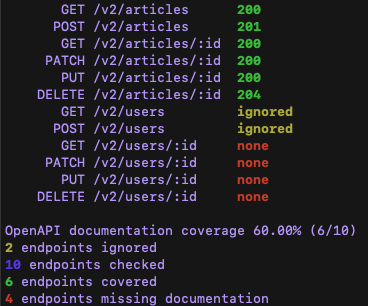
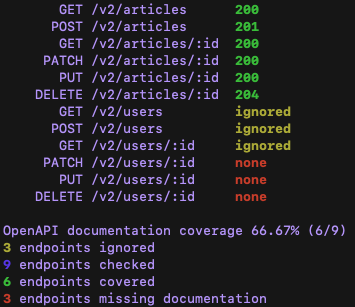
Extend ignore configuration to allow for listing verbs per route (#60)

Changed region(s): [[0.093, 0.0, 0.8366, 0.6765], [0.0, 0.7059, 0.9915, 1.0]]

diff --git a/spec/swagcov/dotfile_spec.rb b/spec/swagcov/dotfile_spec.rb
@@ -45,22 +45,35 @@ RSpec.describe Swagcov::Dotfile do
   describe "#ignore_path?" do
     context "when specified as regexp" do
       it "returns true if path matches regexp" do
-        expect(dotfile.ignore_path?("/v1/think/about/pbt")).to be(true)
+        expect(dotfile.ignore_path?("/v1/think/about/pbt", verb: "not-specified")).to be(true)
       end
 
       it "returns false if path doesn't match ignored" do
-        expect(dotfile.ignore_path?("/v2/some")).to be(false)
+        expect(dotfile.ignore_path?("/v2/some", verb: "unspecified")).to be(false)
       end
     end
 
     context "when specified as string" do
       it "returns true if path equals ignored string" do
-        expect(dotfile.ignore_path?("/ignore/specific/path")).to be(true)
+        expect(dotfile.ignore_path?("/ignore/specific/path", verb: "not-configured")).to be(true)
       end
 
       it "returns false if path doesn't equal ignored string" do
-        expect(dotfile.ignore_path?("/v2/ignore/specific/path/longer")).to be(false)
+        expect(dotfile.ignore_path?("/v2/ignore/specific/path/longer", verb: "anything")).to be(false)
       end
+    end
+
+    context "with verbs specified" do
+      let(:fixture_dotfile) { Pathname.new("spec/fixtures/dotfiles/ignored_verbs.yml") }
+
+      it { expect(dotfile.ignore_path?("/articles/:id", verb: "PUT")).to be(true) }
+      it { expect(dotfile.ignore_path?("/articles/:id", verb: "delete")).to be(true) }
+      it { expect(dotfile.ignore_path?("/articles/:id", verb: "PATCH")).to be(false) }
+      it { expect(dotfile.ignore_path?("/v2/articles", verb: "POST")).to be(true) }
+      it { expect(dotfile.ignore_path?("/users/:id", verb: "PUT")).to be(true) }
+      it { expect(dotfile.ignore_path?("/users/:id", verb: "PATCH")).to be(false) }
+      it { expect(dotfile.ignore_path?("/v1/users/:id", verb: "PATCH")).to be(false) }
+      it { expect(dotfile.ignore_path?("/v1/foo/:bar", verb: "PATCH")).to be(false) }
     end
   end
 

diff --git a/lib/swagcov/dotfile.rb b/lib/swagcov/dotfile.rb
@@ -13,8 +13,14 @@ module Swagcov
       raise BadConfigurationError, "Invalid config file (#{DEFAULT_CONFIG_FILE_NAME})" unless valid?
     end
 
-    def ignore_path? path
-      ignored_regex&.match?(path)
+    def ignore_path? path, verb:
+      ignore_all_path_actions = ignored_regex&.match?(path)
+
+      ignored_verbs = ignored_config&.find { |config| config[path] }
+
+      return ignore_all_path_actions unless ignored_verbs.is_a?(::Hash)
+
+      ignored_verbs.values.flatten.map(&:downcase).any?(verb.downcase)
     end
 
     def only_path_mismatch? path
@@ -38,7 +44,11 @@ module Swagcov
     end
 
     def ignored_regex
-      @ignored_regex ||= path_config_regex(dotfile.dig("routes", "paths", "ignore"))
+      @ignored_regex ||= path_config_regex(ignored_config)
+    end
+
+    def ignored_config
+      @ignored_config ||= dotfile.dig("routes", "paths", "ignore")
     end
 
     def only_regex
@@ -48,7 +58,14 @@ module Swagcov
     def path_config_regex path_config
       return unless path_config
 
-      config = path_config.map { |path| path.first == "^" ? path : "^#{path}$" }
+      config =
+        path_config.map do |path|
+          if path.is_a?(::Hash)
+            "^#{path.keys.first}$"
+          else
+            path.first == "^" ? path : "^#{path}$"
+          end
+        end
 
       /#{config.join('|')}/
     end

diff --git a/spec/swagcov/coverage_spec.rb b/spec/swagcov/coverage_spec.rb
@@ -193,6 +193,39 @@ RSpec.describe Swagcov::Coverage do
       it { expect(result).not_to eq(0) }
     end
 
+    context "with ignored routes configured with actions (verbs)" do
+      before { result }
+
+      let(:pathname) { Pathname.new("spec/fixtures/dotfiles/ignored_verbs.yml") }
+
+      it { expect(init.total).to eq(2) }
+      it { expect(init.covered).to eq(2) }
+      it { expect(init.ignored).to eq(4) }
+      it { expect(init.routes_not_covered).to eq([]) }
+
+      it "has array of ignored routes" do
+        expect(init.routes_ignored).to eq(
+          [
+            { verb: "GET", path: "/articles", status: "ignored" },
+            { verb: "POST", path: "/articles", status: "ignored" },
+            { verb: "PUT", path: "/articles/:id", status: "ignored" },
+            { verb: "DELETE", path: "/articles/:id", status: "ignored" }
+          ]
+        )
+      end
+
+      it "has array of covered routes" do
+        expect(init.routes_covered).to eq(
+          [
+            { verb: "GET", path: "/articles/:id", status: "200" },
+            { verb: "PATCH", path: "/articles/:id", status: "200" }
+          ]
+        )
+      end
+
+      it { expect(result).to eq(0) }
+    end
+
     context "with full documentation coverage and only routes configured" do
       before { result }
 

diff --git a/spec/sandbox_5_0/spec/tasks/swagcov_spec.rb b/spec/sandbox_5_0/spec/tasks/swagcov_spec.rb
@@ -65,8 +65,8 @@ describe "rake swagcov", type: :task do
       rescue SystemExit => e # ignore to test output
         e.inspect
       end.to output(<<~MESSAGE).to_stdout
-               GET /v1/articles      #{200.to_s.green}
               POST /v1/articles      #{201.to_s.green}
+               GET /v1/articles      #{'ignored'.yellow}
                GET /v2/articles/:id  #{'ignored'.yellow}
              PATCH /v2/articles/:id  #{'ignored'.yellow}
                PUT /v2/articles/:id  #{'ignored'.yellow}
@@ -76,10 +76,10 @@ describe "rake swagcov", type: :task do
                PUT /v1/articles/:id  #{'none'.red}
             DELETE /v1/articles/:id  #{'none'.red}
 
-        OpenAPI documentation coverage 33.33% (2/6)
-        #{4.to_s.yellow} endpoints ignored
-        #{6.to_s.blue} endpoints checked
-        #{2.to_s.green} endpoints covered
+        OpenAPI documentation coverage 20.00% (1/5)
+        #{5.to_s.yellow} endpoints ignored
+        #{5.to_s.blue} endpoints checked
+        #{1.to_s.green} endpoints covered
         #{4.to_s.red} endpoints missing documentation
       MESSAGE
     end

diff --git a/spec/sandbox_5_1/spec/tasks/swagcov_spec.rb b/spec/sandbox_5_1/spec/tasks/swagcov_spec.rb
@@ -65,8 +65,8 @@ describe "rake swagcov", type: :task do
       rescue SystemExit => e # ignore to test output
         e.inspect
       end.to output(<<~MESSAGE).to_stdout
-               GET /v1/articles      #{200.to_s.green}
               POST /v1/articles      #{201.to_s.green}
+               GET /v1/articles      #{'ignored'.yellow}
                GET /v2/articles/:id  #{'ignored'.yellow}
              PATCH /v2/articles/:id  #{'ignored'.yellow}
                PUT /v2/articles/:id  #{'ignored'.yellow}
@@ -76,10 +76,10 @@ describe "rake swagcov", type: :task do
                PUT /v1/articles/:id  #{'none'.red}
             DELETE /v1/articles/:id  #{'none'.red}
 
-        OpenAPI documentation coverage 33.33% (2/6)
-        #{4.to_s.yellow} endpoints ignored
-        #{6.to_s.blue} endpoints checked
-        #{2.to_s.green} endpoints covered
+        OpenAPI documentation coverage 20.00% (1/5)
+        #{5.to_s.yellow} endpoints ignored
+        #{5.to_s.blue} endpoints checked
+        #{1.to_s.green} endpoints covered
         #{4.to_s.red} endpoints missing documentation
       MESSAGE
     end

diff --git a/spec/sandbox_5_2/spec/tasks/swagcov_spec.rb b/spec/sandbox_5_2/spec/tasks/swagcov_spec.rb
@@ -65,8 +65,8 @@ describe "rake swagcov", type: :task do
       rescue SystemExit => e # ignore to test output
         e.inspect
       end.to output(<<~MESSAGE).to_stdout
-               GET /v1/articles      #{200.to_s.green}
               POST /v1/articles      #{201.to_s.green}
+               GET /v1/articles      #{'ignored'.yellow}
                GET /v2/articles/:id  #{'ignored'.yellow}
              PATCH /v2/articles/:id  #{'ignored'.yellow}
                PUT /v2/articles/:id  #{'ignored'.yellow}
@@ -76,10 +76,10 @@ describe "rake swagcov", type: :task do
                PUT /v1/articles/:id  #{'none'.red}
             DELETE /v1/articles/:id  #{'none'.red}
 
-        OpenAPI documentation coverage 33.33% (2/6)
-        #{4.to_s.yellow} endpoints ignored
-        #{6.to_s.blue} endpoints checked
-        #{2.to_s.green} endpoints covered
+        OpenAPI documentation coverage 20.00% (1/5)
+        #{5.to_s.yellow} endpoints ignored
+        #{5.to_s.blue} endpoints checked
+        #{1.to_s.green} endpoints covered
         #{4.to_s.red} endpoints missing documentation
       MESSAGE
     end

diff --git a/spec/sandbox_6_0/spec/tasks/swagcov_spec.rb b/spec/sandbox_6_0/spec/tasks/swagcov_spec.rb
@@ -65,8 +65,8 @@ describe "rake swagcov", type: :task do
       rescue SystemExit => e # ignore to test output
         e.inspect
       end.to output(<<~MESSAGE).to_stdout
-               GET /v1/articles      #{200.to_s.green}
               POST /v1/articles      #{201.to_s.green}
+               GET /v1/articles      #{'ignored'.yellow}
                GET /v2/articles/:id  #{'ignored'.yellow}
              PATCH /v2/articles/:id  #{'ignored'.yellow}
                PUT /v2/articles/:id  #{'ignored'.yellow}
@@ -76,10 +76,10 @@ describe "rake swagcov", type: :task do
                PUT /v1/articles/:id  #{'none'.red}
             DELETE /v1/articles/:id  #{'none'.red}
 
-        OpenAPI documentation coverage 33.33% (2/6)
-        #{4.to_s.yellow} endpoints ignored
-        #{6.to_s.blue} endpoints checked
-        #{2.to_s.green} endpoints covered
+        OpenAPI documentation coverage 20.00% (1/5)
+        #{5.to_s.yellow} endpoints ignored
+        #{5.to_s.blue} endpoints checked
+        #{1.to_s.green} endpoints covered
         #{4.to_s.red} endpoints missing documentation
       MESSAGE
     end

diff --git a/spec/sandbox_6_1/spec/tasks/swagcov_spec.rb b/spec/sandbox_6_1/spec/tasks/swagcov_spec.rb
@@ -68,8 +68,8 @@ describe "rake swagcov", type: :task do
       rescue SystemExit => e # ignore to test output
         e.inspect
       end.to output(<<~MESSAGE).to_stdout
-               GET /v1/articles      #{200.to_s.green}
               POST /v1/articles      #{201.to_s.green}
+               GET /v1/articles      #{'ignored'.yellow}
                GET /v2/articles/:id  #{'ignored'.yellow}
              PATCH /v2/articles/:id  #{'ignored'.yellow}
                PUT /v2/articles/:id  #{'ignored'.yellow}
@@ -79,10 +79,10 @@ describe "rake swagcov", type: :task do
                PUT /v1/articles/:id  #{'none'.red}
             DELETE /v1/articles/:id  #{'none'.red}
 
-        OpenAPI documentation coverage 33.33% (2/6)
-        #{4.to_s.yellow} endpoints ignored
-        #{6.to_s.blue} endpoints checked
-        #{2.to_s.green} endpoints covered
+        OpenAPI documentation coverage 20.00% (1/5)
+        #{5.to_s.yellow} endpoints ignored
+        #{5.to_s.blue} endpoints checked
+        #{1.to_s.green} endpoints covered
         #{4.to_s.red} endpoints missing documentation
       MESSAGE
     end

diff --git a/spec/sandbox_7_1/spec/tasks/swagcov_spec.rb b/spec/sandbox_7_1/spec/tasks/swagcov_spec.rb
@@ -68,8 +68,8 @@ describe "rake swagcov", type: :task do
       rescue SystemExit => e # ignore to test output
         e.inspect
       end.to output(<<~MESSAGE).to_stdout
-               GET /v1/articles      #{200.to_s.green}
               POST /v1/articles      #{201.to_s.green}
+               GET /v1/articles      #{'ignored'.yellow}
                GET /v2/articles/:id  #{'ignored'.yellow}
              PATCH /v2/articles/:id  #{'ignored'.yellow}
                PUT /v2/articles/:id  #{'ignored'.yellow}
@@ -79,10 +79,10 @@ describe "rake swagcov", type: :task do
                PUT /v1/articles/:id  #{'none'.red}
             DELETE /v1/articles/:id  #{'none'.red}
 
-        OpenAPI documentation coverage 33.33% (2/6)
-        #{4.to_s.yellow} endpoints ignored
-        #{6.to_s.blue} endpoints checked
-        #{2.to_s.green} endpoints covered
+        OpenAPI documentation coverage 20.00% (1/5)
+        #{5.to_s.yellow} endpoints ignored
+        #{5.to_s.blue} endpoints checked
+        #{1.to_s.green} endpoints covered
         #{4.to_s.red} endpoints missing documentation
       MESSAGE
     end

diff --git a/spec/sandbox_7_2/spec/tasks/swagcov_spec.rb b/spec/sandbox_7_2/spec/tasks/swagcov_spec.rb
@@ -68,8 +68,8 @@ describe "rake swagcov", type: :task do
       rescue SystemExit => e # ignore to test output
         e.inspect
       end.to output(<<~MESSAGE).to_stdout
-               GET /v1/articles      #{200.to_s.green}
               POST /v1/articles      #{201.to_s.green}
+               GET /v1/articles      #{'ignored'.yellow}
                GET /v2/articles/:id  #{'ignored'.yellow}
              PATCH /v2/articles/:id  #{'ignored'.yellow}
                PUT /v2/articles/:id  #{'ignored'.yellow}
@@ -79,10 +79,10 @@ describe "rake swagcov", type: :task do
                PUT /v1/articles/:id  #{'none'.red}
             DELETE /v1/articles/:id  #{'none'.red}
 
-        OpenAPI documentation coverage 33.33% (2/6)
-        #{4.to_s.yellow} endpoints ignored
-        #{6.to_s.blue} endpoints checked
-        #{2.to_s.green} endpoints covered
+        OpenAPI documentation coverage 20.00% (1/5)
+        #{5.to_s.yellow} endpoints ignored
+        #{5.to_s.blue} endpoints checked
+        #{1.to_s.green} endpoints covered
         #{4.to_s.red} endpoints missing documentation
       MESSAGE
     end

diff --git a/spec/sandbox_8_0/spec/tasks/swagcov_spec.rb b/spec/sandbox_8_0/spec/tasks/swagcov_spec.rb
@@ -68,8 +68,8 @@ describe "rake swagcov", type: :task do
       rescue SystemExit => e # ignore to test output
         e.inspect
       end.to output(<<~MESSAGE).to_stdout
-               GET /v1/articles      #{200.to_s.green}
               POST /v1/articles      #{201.to_s.green}
+               GET /v1/articles      #{'ignored'.yellow}
                GET /v2/articles/:id  #{'ignored'.yellow}
              PATCH /v2/articles/:id  #{'ignored'.yellow}
                PUT /v2/articles/:id  #{'ignored'.yellow}
@@ -79,10 +79,10 @@ describe "rake swagcov", type: :task do
                PUT /v1/articles/:id  #{'none'.red}
             DELETE /v1/articles/:id  #{'none'.red}
 
-        OpenAPI documentation coverage 33.33% (2/6)
-        #{4.to_s.yellow} endpoints ignored
-        #{6.to_s.blue} endpoints checked
-        #{2.to_s.green} endpoints covered
+        OpenAPI documentation coverage 20.00% (1/5)
+        #{5.to_s.yellow} endpoints ignored
+        #{5.to_s.blue} endpoints checked
+        #{1.to_s.green} endpoints covered
         #{4.to_s.red} endpoints missing documentation
       MESSAGE
     end

diff --git a/spec/swagcov/install_spec.rb b/spec/swagcov/install_spec.rb
@@ -33,6 +33,8 @@ RSpec.describe Swagcov::Install do
           #       - ^/v2 # only track v2 endpoints
           #     ignore:
           #       - /v2/users # do not track certain endpoints
+          #       - /v2/users/:id: # ignore only certain actions (verbs)
+          #         - GET
         YAML
       )
     end
